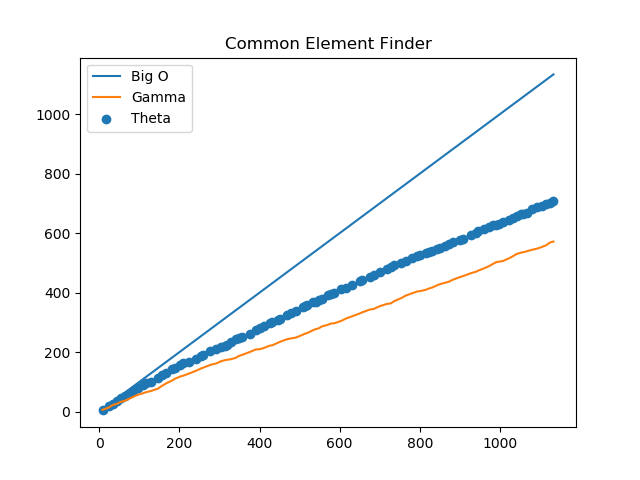
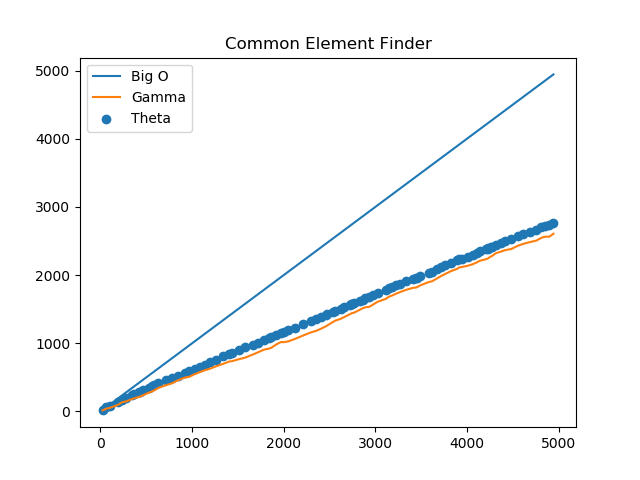
some stuff

diff --git a/main.py b/main.py
@@ -8,6 +8,9 @@ from fibonacci import *
 import matplotlib.pyplot as plt
 import random as rand
 
+'''
+TASK 1
+'''
 #Testing Average case for Euclid's algorithm size 5
 n, x = 5, 1
 euclidAvg = []
@@ -74,8 +77,8 @@ i = 0
 list1, list2, output, numIters, xaxisGamma, xaxisBigO = [], [], [], [], [], []
 
 while i < 100:
-    n = rand.randint(1, 10)
-    m = rand.randint(1, 10)
+    n = rand.randint(1, 100/2)
+    m = rand.randint(1, 100/2)
     j, y, count = 0, 0, 0
     #generate 2 lists of n size full of random numbers
     while j < n:
